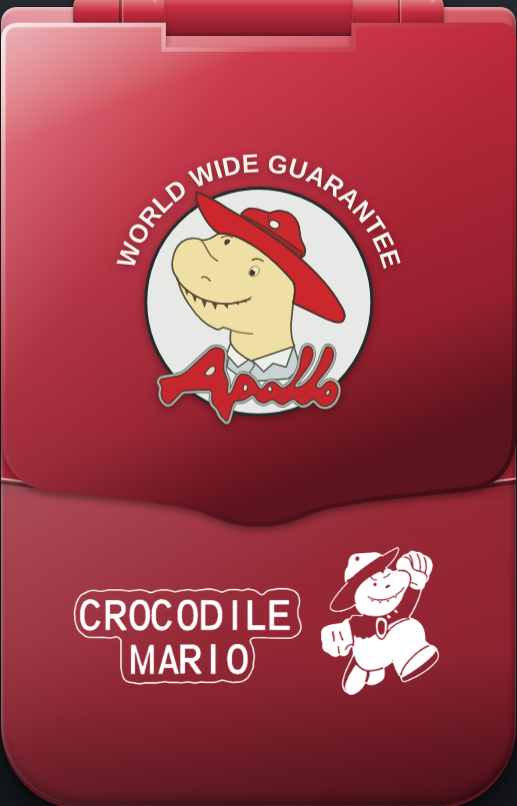
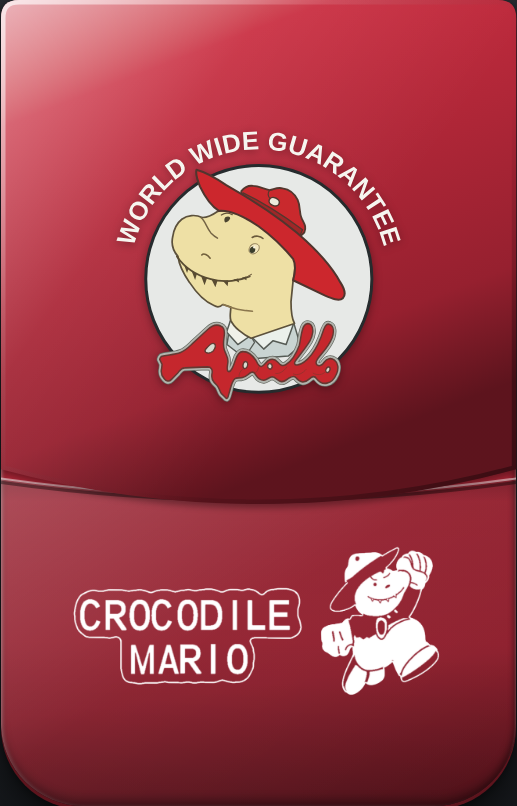
Закрытая игрушка по фото владельца: две разделённые втулки шарнира слева и справа, посередине пусто, свободная кромка крышки — плавная дуга без выступа
Claude-Session: https://claude.ai/code/session_01HTeFxEvLK92BAnJD9rQXz2

Changed region(s): [[0.2166, 0.1551, 0.7737, 0.5273], [0.0, 0.0, 1.0, 0.062], [0.0309, 0.5583, 1.0, 0.6824]]

diff --git a/index.html b/index.html
@@ -190,12 +190,12 @@
                   <stop offset="0.6" stop-color="#000" stop-opacity="0"/>
                   <stop offset="1" stop-color="#000" stop-opacity="0.4"/>
                 </linearGradient>
-                <clipPath id="cover-clip"><path d="M14,0 L128,0 L128,19 L272,19 L272,0 L386,0 Q400,0 400,14 L400,319 C400,348 383,362 358,364 C298,370 262,374 244,380 C230,385 220,391 200,391 C180,391 170,385 156,380 C138,374 102,370 42,364 C17,362 0,348 0,319 L0,14 Q0,0 14,0 Z"/></clipPath>
+                <clipPath id="cover-clip"><path d="M14,0 L386,0 Q400,0 400,14 L400,364 Q200,418 0,364 L0,14 Q0,0 14,0 Z"/></clipPath>
               </defs>
-              <!-- Оборот крышки: тот же контур, что у лицевой стороны, вверх ногами — вырез под шарнир наверху, заострение внизу. -->
-              <path d="M14,0 L128,0 L128,19 L272,19 L272,0 L386,0 Q400,0 400,14 L400,319 C400,348 383,362 358,364 C298,370 262,374 244,380 C230,385 220,391 200,391 C180,391 170,385 156,380 C138,374 102,370 42,364 C17,362 0,348 0,319 L0,14 Q0,0 14,0 Z" fill="url(#cover-body)"/>
-              <path d="M14,0 L128,0 L128,19 L272,19 L272,0 L386,0 Q400,0 400,14 L400,319 C400,348 383,362 358,364 C298,370 262,374 244,380 C230,385 220,391 200,391 C180,391 170,385 156,380 C138,374 102,370 42,364 C17,362 0,348 0,319 L0,14 Q0,0 14,0 Z" fill="url(#cover-gloss)"/>
-              <path d="M14,0 L128,0 L128,19 L272,19 L272,0 L386,0 Q400,0 400,14 L400,319 C400,348 383,362 358,364 C298,370 262,374 244,380 C230,385 220,391 200,391 C180,391 170,385 156,380 C138,374 102,370 42,364 C17,362 0,348 0,319 L0,14 Q0,0 14,0 Z" fill="none" stroke="url(#cover-rim)" stroke-width="7" clip-path="url(#cover-clip)"/>
+              <!-- Оборот крышки (по фото закрытой игрушки): верхняя кромка прямая — по краям из-за неё выглядывают втулки шарнира, посередине ничего нет; свободная кромка внизу — плавная дуга без выступа. -->
+              <path d="M14,0 L386,0 Q400,0 400,14 L400,364 Q200,418 0,364 L0,14 Q0,0 14,0 Z" fill="url(#cover-body)"/>
+              <path d="M14,0 L386,0 Q400,0 400,14 L400,364 Q200,418 0,364 L0,14 Q0,0 14,0 Z" fill="url(#cover-gloss)"/>
+              <path d="M14,0 L386,0 Q400,0 400,14 L400,364 Q200,418 0,364 L0,14 Q0,0 14,0 Z" fill="none" stroke="url(#cover-rim)" stroke-width="7" clip-path="url(#cover-clip)"/>
             </svg>
             <img class="lid__logo lid__logo--white" src="/brand/apollo-logo-white-caption.svg" width="1000" height="1000" alt="" aria-hidden="true" />
             <img class="lid__logo lid__logo--red" src="/brand/apollo-logo.svg" width="1000" height="1000" alt="" aria-hidden="true" />
@@ -203,7 +203,7 @@
         </div>
         </div>
 
-        <div class="toy__hinge" aria-hidden="true"><i class="toy__knuckle"></i><i class="toy__band"><i class="toy__barrel"></i></i><i class="toy__knuckle"></i></div>
+        <div class="toy__hinge" aria-hidden="true"><i class="toy__knuckle"></i><i class="toy__band"></i><i class="toy__knuckle"></i></div>
 
         <div class="toy__lower" id="lower"><div class="toy__lower-in">
         <div class="base" id="base" role="group" aria-label="Кнопки игрушки" data-i18n-attrs="aria-label=base.label">

diff --git a/src/styles.css b/src/styles.css
@@ -1055,37 +1055,29 @@ body[data-chrome='toy'] {
   transition: grid-template-rows var(--flip, 0s) var(--flip-ease, ease), z-index 0s;
 }
 
-/* Крышка чуть ниже верхнего торца: втулки шарнира выступают над ней, как на фото закрытых игрушек. */
 .toy[data-closed] .toy__lidslot > .lid {
-  transform: translateY(calc(-100% + 4.4cqw)) perspective(240cqw) rotateX(-180deg);
+  transform: translateY(-100%) perspective(240cqw) rotateX(-180deg);
 }
 
-/* Закрытая: между втулками вместо шлейфа — гладкая гильза шарнира цвета корпуса (шлейф уложен внутрь). */
-.toy__barrel {
-  position: absolute;
-  inset: 0;
-  z-index: 2;
-  background: linear-gradient(180deg, var(--rim-hi), var(--rim) 34%, var(--rim-dark) 80%);
-  box-shadow: inset 0 0.35cqw 0.45cqw rgba(255, 255, 255, 0.34), inset 0 -0.6cqw 0.8cqw rgba(0, 0, 0, 0.32);
-  opacity: 0;
-  pointer-events: none;
-  transition: opacity calc(var(--flip, 0s) * 0.45) ease calc(var(--flip, 0s) * 0.3);
+/* Закрытая (по фото): шарниры — две аккуратные разделённые втулки слева и справа, выглядывают из-за верхней кромки крышки;
+   посередине ничего нет (шлейф уложен внутрь), кромка крышки ровная. */
+.toy__knuckle {
+  transition: margin-top var(--flip, 0s) var(--flip-ease, ease);
 }
 
-.toy[data-closed] .toy__barrel {
-  opacity: 1;
-  transition: opacity calc(var(--flip, 0s) * 0.3) ease calc(var(--flip, 0s) * 0.55);
+.toy[data-closed] .toy__knuckle {
+  margin-top: -1.2cqw;
 }
 
-/* Закрытая: гильза вровень со втулками (у открытой игрушки пластина шлейфа выше втулок). */
 .toy__band {
-  transition: margin-top var(--flip, 0s) var(--flip-ease, ease), height var(--flip, 0s) var(--flip-ease, ease);
+  transition: opacity calc(var(--flip, 0s) * 0.35) ease calc(var(--flip, 0s) * 0.5);
 }
 
-.toy[data-closed] .toy__hinge .toy__band {
-  height: 8.6cqw;
-  margin-top: 3cqw;
+.toy[data-closed] .toy__band {
+  opacity: 0;
   cursor: default;
+  pointer-events: none;
+  transition: opacity calc(var(--flip, 0s) * 0.3) ease;
 }
 
 /* ── Арена: слева справка, посередине игрушка, справа пульт ─────────────────

diff --git a/docs/visual-spec.md b/docs/visual-spec.md
@@ -139,12 +139,15 @@
 царапины, потемневший бронзовый край, прорези под разными углами у каждого. Рисунок «три Марио и гора» — яркий оранжевый (на жёлтом корпусе — розовый), штрих одной ширины без полупрозрачности; фигурка — одной линией
 (кепка с козырьком и глаза внутри, «сердце» на груди **без двойной обводки**, как на оригинале). Шлейф можно зажать — см. «шутку со шлейфом» в [README](../README.md).
 
-**Закрытая раскладушка.** По умолчанию игрушка закрыта: крышка сложена на нижнюю половину и обращена к зрителю оборотом, снизу выглядывает «подбородок» нижней половины с логотипом Crocodile Mario ([снимок](screenshots/toy-closed-page.png)). На обороте — логотип Apollo (векторная реконструкция владельца по трём фото; в `public/brand/`: `apollo-logo.svg` с красной надписью по дуге — на жёлтом и белом корпусах, `apollo-logo-white-caption.svg` с белой — на синем и красном; как выглядит оборот на самом устройстве, **не измерено**, рисунок оборота — допущение: контур лицевой стороны вверх ногами — вырез под шарнир наверху, заострение внизу). Устройство CSS:
+**Закрытая раскладушка.** По умолчанию игрушка закрыта: крышка сложена на нижнюю половину и обращена к зрителю оборотом, снизу выглядывает «подбородок» нижней половины с логотипом Crocodile Mario ([снимок](screenshots/toy-closed-page.png)). Вид закрытой игрушки — **по фото владельца** (белая игрушка в руках): шарниры — две аккуратные **разделённые втулки слева и справа**, выглядывающие из-за верхней кромки крышки, **посередине ничего нет** (шлейф уложен внутрь, не виден); верхняя кромка крышки ровная; **свободная кромка крышки — плавная дуга без выступа**, переходящая от края до края корпуса. На обороте — логотип Apollo (векторная реконструкция владельца по трём фото; в `public/brand/`: `apollo-logo.svg` с красной надписью по дуге — на жёлтом и белом корпусах, `apollo-logo-white-caption.svg` с белой — на синем и красном). Устройство CSS:
 
 - крышка — пластина с двумя сторонами: `.lid__front` (экран) и `.lid__cover` (оборот, кнопка «Открыть игрушку»), оборот повёрнут на 180° (`rotateX(180deg)`), у обеих `backface-visibility: hidden`; ось поворота — нижняя кромка крышки (`transform-origin: 50% 100%`), перспектива — функция `perspective(240cqw)` в самом `transform`;
-- закрыто: `translateY(-100%) perspective() rotateX(-180deg)` — крышка ложится на нижнюю половину; её место в потоке схлопывается (`.toy__lidslot`: `grid-template-rows: 1fr → 0fr`), поэтому закрытая игрушка занимает ровно нижнюю половину и стоит по центру, а ширина (`--stage-w`) растёт — закрытая ниже открытой;
-- шлейф при закрытии прячется за гладкой гильзой шарнира (`.toy__barrel`); `.lid__front` и нижняя половина — `inert`, закрытая крышка получает фокус и открывается Enter / пробелом;
+- закрыто: `translateY(-100%) perspective() rotateX(-180deg)` — крышка ложится на нижнюю половину; её место в потоке схлопывается (`.toy__lidslot`: `grid-template-rows: 1fr → 0fr`), поэтому закрытая игрушка занимает ровно нижнюю половину и стоит по центру, а ширина (`--stage-w`) растёт — закрытая ниже открытой; слой крышки над шарниром (`z-index: 3`), у открытой — под ним (шлейф и втулки принимают нажатия);
+- втулки шарнира в закрытом виде приподнимаются (`.toy__knuckle { margin-top: -1.2cqw }`) и выглядывают из-за кромки крышки, шлейф (`.toy__band`) гаснет;
+- `.lid__front` и нижняя половина — `inert`, закрытая крышка получает фокус и открывается Enter / пробелом;
 - время — `--flip` (= `--morph` × 1,7 ≈ 1 с, кривая `cubic-bezier(0.45, 0.05, 0.2, 1)`); при «уменьшении движения» и на загрузке переход мгновенный.
+
+Открытая крышка сохраняет заострение по центру верхней кромки (по фото жёлтого корпуса с открытой крышкой); закрытая — гладкая дуга, как на фото закрытой игрушки.
 
 Состояния вида — `data-view="closed|full|screen"` на `#toy` и `#arena` (плюс булевы `data-closed` и `data-compact`); начальное задаёт `?view=…` или `?power=on`, иначе — закрыто. Идущая игра при закрытии крышки ставится на паузу.
 

diff --git a/docs/reference-status.md b/docs/reference-status.md
@@ -54,7 +54,7 @@
 | UP — прыжок | в режиме MARIO по упаковке UP прыгает вверх, как JUMP; `jump.triggers = ["jump", "up"]`. DOWN в этом режиме действия не имеет | `public/content/room/rules.json` |
 | Шарнир, шлейф, винты, рисунок | шарнир — простая петля: по две цилиндрические втулки с каждой стороны, одна вертикальная линия шва; чёрный шлейф между ними **с потёртостями** (трещины, белые крапины по краям — по фото синего и жёлтого корпусов); винты потёрты (царапины, потемневший край, прорези под разными углами); рисунок «три Марио и гора» — яркий, одной линией (синий и жёлтый корпуса: оранжевый и розовый). Оформление по фото, не измерения | `index.html`, `src/styles.css` |
 | Анимация «только экран» | плавный переход: нижняя половина сворачивается, шарнир тает, вырез крышки закрывается, игрушка увеличивается; обратно — так же (~0,6 с). Оформление оболочки |
-| Закрытая раскладушка | **по просьбе владельца** игрушка при каждой загрузке закрыта (вид не сохраняется): на крышке логотип Apollo (векторная реконструкция владельца по фото; красная или белая надпись — под цвет корпуса), снизу виден «подбородок» нижней половины; щелчок по крышке (Enter / пробел) раскрывает её с анимацией — поворот на 180° вокруг шарнира с перспективой, ~1 с. Оформление оболочки; как выглядит оборот крышки оригинала, **не измерено** (рисунок оборота — допущение) | `index.html`, `src/styles.css`, `src/app/app.ts`, `public/brand/apollo-logo*.svg` |
+| Закрытая раскладушка | **по просьбе владельца** игрушка при каждой загрузке закрыта (вид не сохраняется): на крышке логотип Apollo (векторная реконструкция владельца по фото; красная или белая надпись — под цвет корпуса), снизу виден «подбородок» нижней половины; внешний вид закрытой игрушки — **по фото владельца**: две разделённые втулки шарнира слева и справа, посередине ничего, свободная кромка крышки — плавная дуга без выступа; щелчок по крышке (Enter / пробел) раскрывает её с анимацией — поворот на 180° вокруг шарнира с перспективой, ~1 с. Оформление оболочки; как выглядит оборот крышки оригинала, **не измерено** (рисунок оборота — допущение) | `index.html`, `src/styles.css`, `src/app/app.ts`, `public/brand/apollo-logo*.svg` |
 | GAME OVER | когда жизни кончились, поле пустеет и справа налево плывёт «GAME OVER» блоками 3 × 5 клеток (≈ 6 колонок в секунду, по раскадровке 288–326 с видео); начертания G, A, M, E сняты с кадров, **O, V, R — по общей логике шрифта (в кадрах не видны)**; пауза между проходами и появление текста после гибели — допущение. Презентация, в состояние игры не входит | `src/render/banner.ts`, `src/render/effects.ts` |
 | Спидран-HUD | выезжающий блок пульта: время каждого уровня и общее время по тактам мира (`worldTick`, пауза не в счёт), сброс рестартом. **Выдумка оболочки**, оригинал такого не показывает | `src/app/speedrun.ts`, `src/app/controlPanel.ts` | `src/styles.css`, `src/app/app.ts` |
 | Шутка со шлейфом | пока шлейф между половинами зажат мышью или пальцем, экран сначала рассыпается кусками (светодиоды мигают), потом гаснет; отпустили — возвращается. **Выдумка оболочки, не поведение оригинала** (по просьбе владельца) | `src/app/cableGlitch.ts`, `src/render/glitch.ts` |
